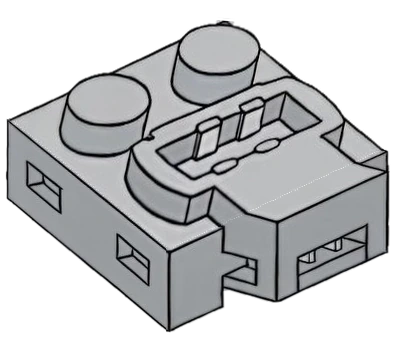
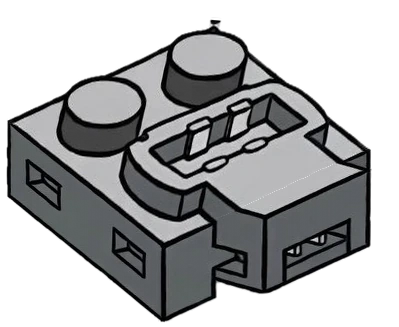
Wiring: back to the user's original 6.0 and 4.0 hub drawings, camera read off the drawings themselves (top-face axes, square stud grid); dark grey connectors from his four-side drawing re-projected onto each port's 2x2 spot, laid out as in his wireframe examples
Claude-Session: https://claude.ai/code/session_01RxQ4QJZ9M2VY5cz1gsySH8

diff --git a/app/src/main/assets/app.js b/app/src/main/assets/app.js
@@ -6394,20 +6394,20 @@ var SS=U,AX=[-.84*SS,.40*SS],AY=[-.66*SS,-.42*SS],AZ=[0,-.84*SS],HZ=3.4,CZ=2.25,
 // the hub is the real picture (redrawn in the motor style); its top plane maps hub-drawing px onto picture px with this affine fit
 // (least squares on the 12 stud centres, rms 5 px); HK scales the picture so one stud matches U
 var HM=[[-0.53579,-0.46667,1307.89668],[0.25023,-0.3043,143.12769]],HK=.6,HWH=[1125,962],HP=[0,0];
-// Hub pictures: the user's renders of the 6.0 and 4.0 hubs. Their camera was read off the matching wireframe views (the two
+// Hub pictures: the user's 6.0 and 4.0 hub drawings. Their camera was read off the drawings (same as his wireframe views) (the two
 // top-face axes, square studs, vertical up); M maps the hub plan (162.5 px = 1 stud) onto the hub top in picture px,
 // AZ = picture px per stud upward, K scales the picture. P: centre of each port's contact half on the plan and the way its
 // cable leaves; the stud half of the connector sits on the two hub studs inward.
 var HUBS={
- '6':{img:'img/pf/hub6.webp',WH:[1401,1193],M:[[0.668728, 0.506353, -1113.192733], [-0.313255, 0.413708, 464.477415]],K:0.49,AZ:107.091,
-  P:{A:[1478.07,1439.48,0,1,'f'],B:[1478.07,950.62,0,-1,'b'],C:[1801.72,1439.48,0,1,'f'],D:[1801.72,950.62,0,-1,'b'],E:[2126.72,1439.48,0,1,'f'],F:[2126.72,950.62,0,-1,'b']}},
- '4':{img:'img/pf/hub4.webp',WH:[1098,921],M:[[0.55587, 0.558967, -1671.459417], [-0.271116, 0.269614, 467.777724]],K:0.55,AZ:112.024,
-  P:{A:[1963.74,1786.69,-1,0,'ab'],B:[1963.74,1459.27,-1,0,'ab'],C:[2773.82,1459.27,1,0,'cd'],D:[2773.82,1786.69,1,0,'cd']}}};
+ '6':{img:'img/pf/hub6.webp',WH:[1329,1134],M:[[0.629798, 0.486315, -1067.673442], [-0.297704, 0.391007, 472.837621]],K:0.51,AZ:101.9,
+  P:{A:[1541.74,1382.68,0,1,'f'],B:[1541.74,895.18,0,-1,'b'],C:[1867.6,1382.68,0,1,'f'],D:[1867.6,895.18,0,-1,'b'],E:[2192.03,1382.68,0,1,'f'],F:[2192.03,895.18,0,-1,'b']}},
+ '4':{img:'img/pf/hub4.webp',WH:[1003,846],M:[[0.508856, 0.519224, -1521.952875], [-0.248186, 0.252122, 425.916552]],K:0.58,AZ:103.198,
+  P:{A:[1950.0,1746.15,-1,0,'ab'],B:[1950.0,1420.86,-1,0,'ab'],C:[2762.5,1420.86,1,0,'cd'],D:[2762.5,1746.15,1,0,'cd']}}};
 // the user's connector, drawn from four sides (his drawing). Each side view is re-projected face by face (top, left, right)
 // into the hub camera, so it stands square on its 2x2 spot: off = picture corner from the near-left bottom corner of the spot
 // on the hub top, ex = where its cable leaves, both in hub picture px.
 // 6.0: b = B D F (housing to the back), f = A C E (mouth to the front); 4.0: ab = A B (mouth to the A/B end), cd = C D (housing to the C/D end)
-var PLUGS={b:{W:427,H:372,off:[-6.78,-230.03],ex:[54.33,-73.40]},f:{W:419,H:337,off:[-4.03,-195.05],ex:[327.57,27.70]},cd:{W:376,H:296,off:[-4.78,-201.46],ex:[316.91,-71.62]},ab:{W:376,H:268,off:[-7.81,-173.03],ex:[54.50,-4.96]}};
+var PLUGS={b:{W:404,H:353,off:[-5.79,-219.48],ex:[51.17,-69.99]},f:{W:399,H:327,off:[-4.85,-191.56],ex:[311.57,26.44]},cd:{W:348,H:274,off:[-6.10,-186.06],ex:[291.94,-65.59]},ab:{W:348,H:249,off:[-8.34,-159.38],ex:[50.62,-3.85]}};
 var HKIND='',HIMG='',PORTS={};
 function hubKind(){var k=isMk4(WR.slot)?'4':'6',h=HUBS[k];HM=h.M;HK=h.K;HWH=h.WH;HIMG=h.img;PORTS=h.P;AZ=[0,-HK*h.AZ];if(HKIND!==k){HKIND=k;slotsFor(k)}}
 function W(x,y,z){return [HP[0]+HK*(HM[0][0]*x+HM[0][1]*y+HM[0][2])+(z-HZ)*AZ[0],HP[1]+HK*(HM[1][0]*x+HM[1][1]*y+HM[1][2])+(z-HZ)*AZ[1]]}
